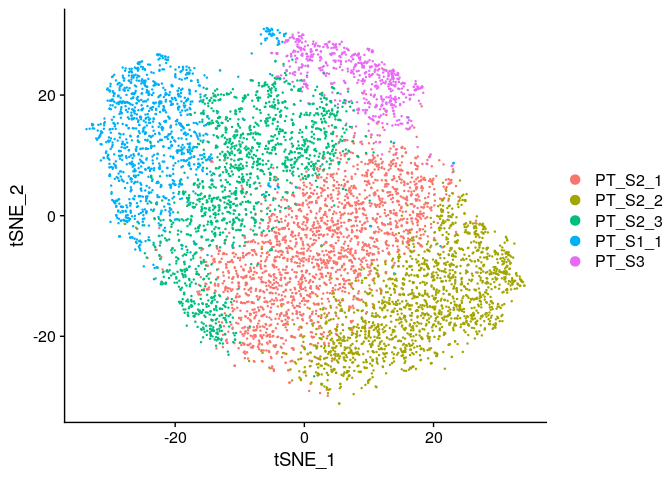
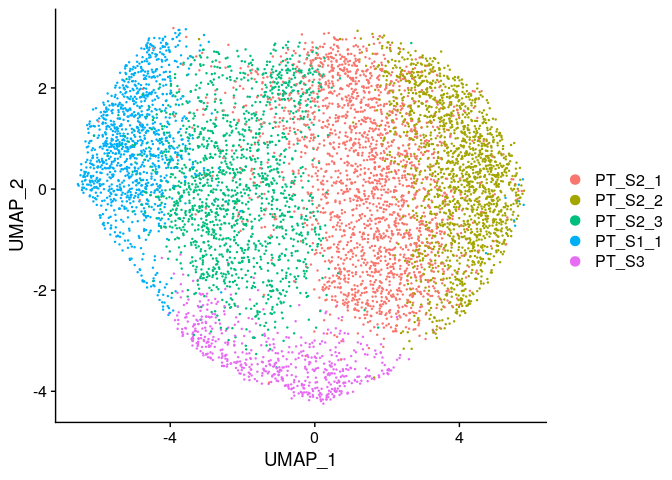
minor add, umap final assign

diff --git a/Individual_analysis_CK120_CD13/4_final_assignment_CK120_CD13.md b/Individual_analysis_CK120_CD13/4_final_assignment_CK120_CD13.md
@@ -166,8 +166,18 @@ Heatmap(as.matrix(sg$condGeneProb)[unlist(reporters),], name="condGeneProb",
 
 ![](4_final_assignment_CK120_CD13_files/figure-gfm/cond_heatmap-1.png)<!-- -->
 
+### TSNE
+
 ``` r
 DimPlot(SeuratObject, reduction="tsne")
+```
+
+![](4_final_assignment_CK120_CD13_files/figure-gfm/tsne_final-1.png)<!-- -->
+
+### UMAP
+
+``` r
+DimPlot(SeuratObject, reduction="umap")
 ```
 
 ![](4_final_assignment_CK120_CD13_files/figure-gfm/umap_final-1.png)<!-- -->
